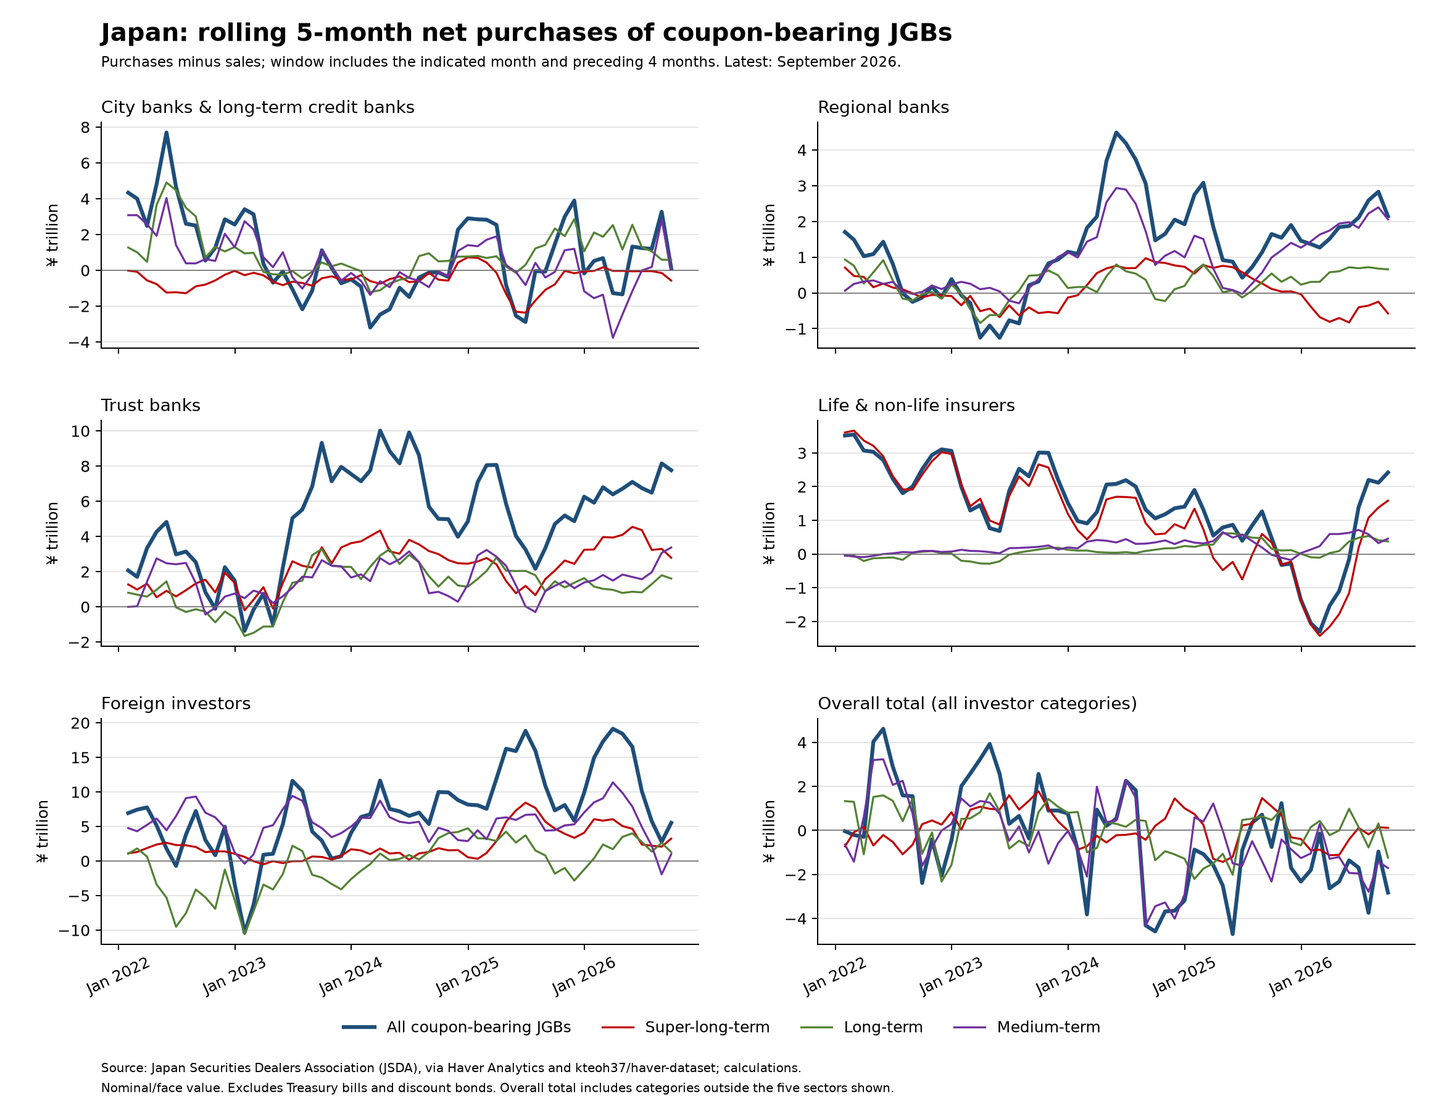
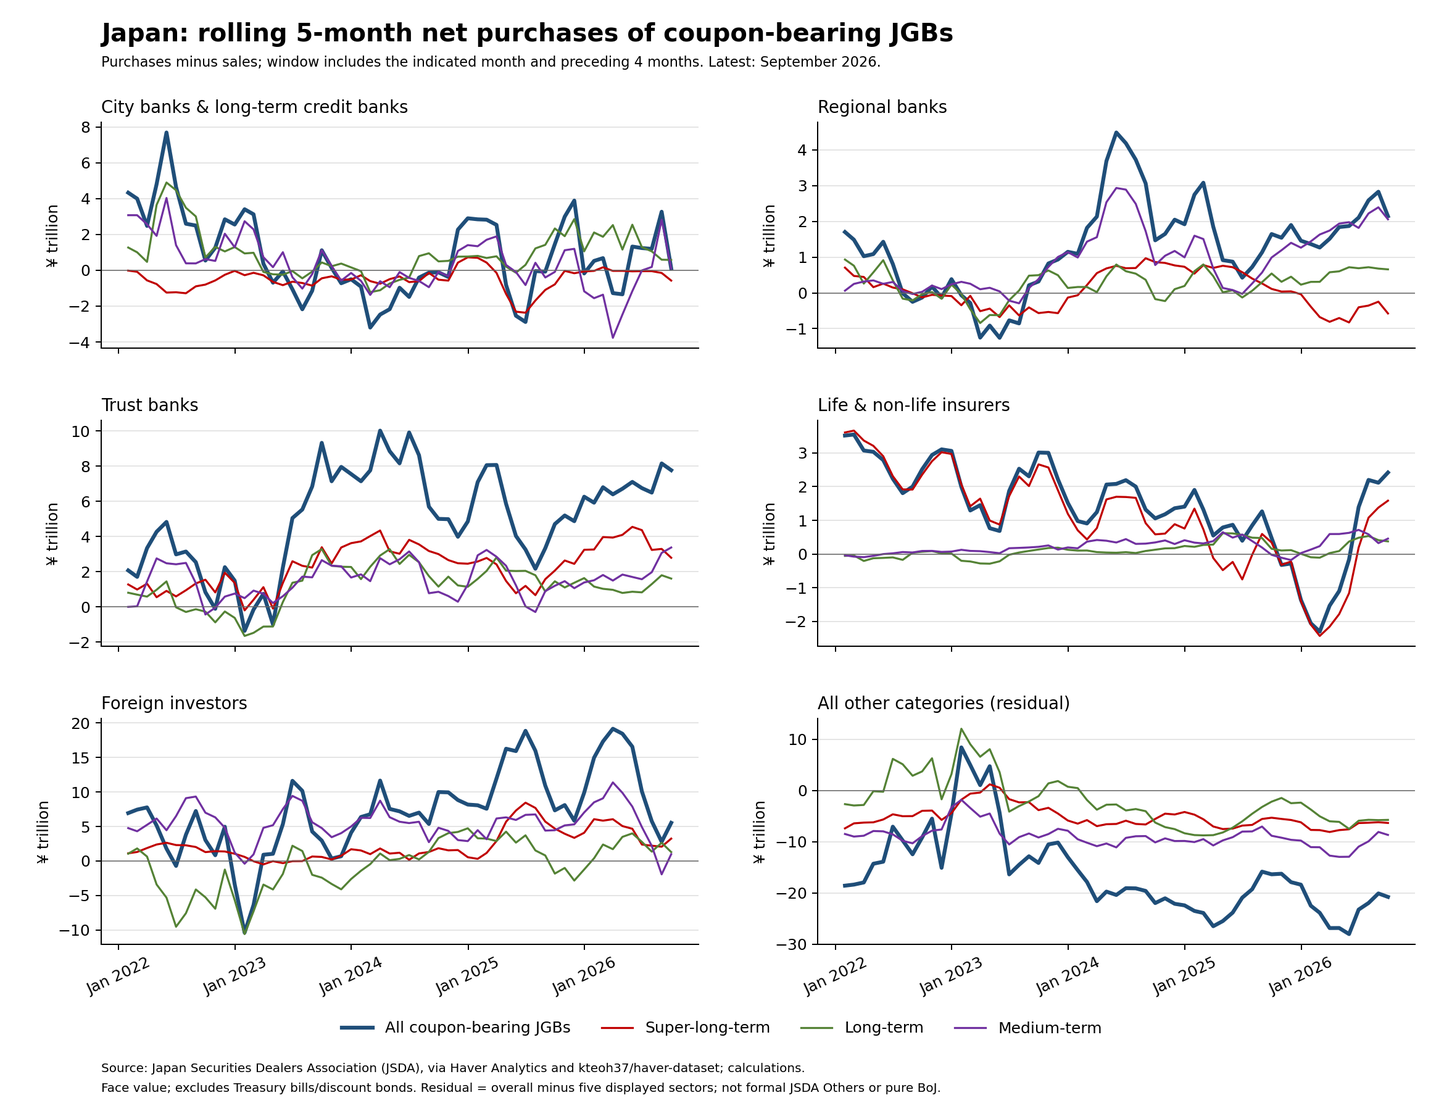
Replace overall JGB panel with explicitly defined other-categories residual

diff --git a/public/reports/japan-portfolio/index.html b/public/reports/japan-portfolio/index.html
@@ -1,4 +1,4 @@
 <!doctype html><html lang="en"><head><meta charset="utf-8"><meta name="viewport" content="width=device-width,initial-scale=1"><title>Japan portfolio flows — Daily Market Monitor</title>
 <style>:root{color-scheme:light dark;--bg:#f4f6f8;--fg:#243746;--card:white;--border:#dce4ea;--muted:#596b78;--accent:#183f5c}@media(prefers-color-scheme:dark){:root{--bg:#020617;--fg:#e2e8f0;--card:#0f172a;--border:#475569;--muted:#94a3b8;--accent:#c7d2fe}}*{box-sizing:border-box}body{margin:0;background:var(--bg);color:var(--fg);font:15px/1.55 system-ui,sans-serif}main{max-width:1500px;margin:auto;padding:30px 28px}h1{font-size:29px;color:var(--accent);margin:0 0 8px}h2{font-size:21px;color:var(--accent)}.intro,.source{color:var(--muted)}.card{background:var(--card);border:1px solid var(--border);border-radius:12px;padding:24px;margin:24px 0}.notice{border-left:4px solid #b65330;padding:14px 20px}.source{font-size:12px;overflow-wrap:anywhere}img{width:100%;height:auto;display:block;background:white;border-radius:6px}a{color:var(--accent)}@media(max-width:650px){main{padding:18px 10px}.card{padding:15px 10px}h1{font-size:24px}}</style></head><body><main><p><a href="../../">← Daily Market Monitor</a></p><h1>Japan portfolio flows</h1><p class="intro">Cross-border investment and domestic JGB purchases · yen trillion</p>
-<div class="card notice"><strong>complete / live sources checked</strong><p>Live source check attempted: 2026-10-27T14:54:31.763663+00:00. Observation dates and input vintage are shown per chart. “Unchanged” means values match the previous successful source check; it does not imply a new observation. Failures retain the last complete component and show a warning. Click a chart for its full-resolution PNG.</p></div>
-<section class="card"><h2>Cross-border portfolio flows since 2022</h2><p>Cumulative net purchases from January 2022, yen trillion. Residents: foreign equities +1.47, foreign long-term debt +8.66, foreign short-term debt +0.57. Nonresidents: Japanese equities +19.80, Japanese long-term debt +11.66, Japanese short-term debt -28.97. Positive values mean net purchases; negative values mean net sales.</p><p class="source">MOF weekly securities transactions · Latest observation: 2026-10-17 · Status: unchanged · New periods: 0 · Prior history revised: False · Last successful check: 2026-10-27T14:54:31.763663+00:00 · Final Update  October  22 , 2026</p><p></p><a href="portfolio_flows.png"><img src="portfolio_flows.png" alt="Cross-border portfolio flows since 2022" loading="lazy"></a></section><section class="card"><h2>Cross-border portfolio flows rebased to 2026</h2><p>Cumulative net purchases from January 2026, yen trillion. Residents: foreign equities +2.58, foreign long-term debt -5.18, foreign short-term debt -0.48. Nonresidents: Japanese equities +8.72, Japanese long-term debt +10.34, Japanese short-term debt -16.87. Positive values mean net purchases; negative values mean net sales.</p><p class="source">MOF weekly securities transactions · Latest observation: 2026-10-17 · Status: unchanged · New periods: 0 · Prior history revised: False · Last successful check: 2026-10-27T14:54:31.763663+00:00 · Final Update  October  22 , 2026</p><p></p><a href="portfolio_flows_recent.png"><img src="portfolio_flows_recent.png" alt="Cross-border portfolio flows rebased to 2026" loading="lazy"></a></section><section class="card"><h2>Who is buying coupon-bearing JGBs?</h2><p>Rolling five calendar month net purchases, yen trillion; displayed since 2022. Latest all coupon-bearing totals — City banks &amp; long-term credit banks: +0.11; Foreign investors: +5.53; Life &amp; non-life insurers: +2.42; Overall total (all investor categories): -2.83; Regional banks: +2.15; Trust banks: +7.77. Super-long-, long- and medium-term maturity groups are shown separately. Nominal/face value; excludes Treasury bills and discount bonds. The overall total includes categories outside the five displayed sectors and is not their sum.</p><p class="source">JSDA via Haver Analytics · Latest observation: 2026-09-30 · Status: unchanged · New periods: 0 · Prior history revised: False · Last successful check: 2026-10-27T14:54:31.763663+00:00 · Haver snapshot: 2026-10-27T14:45:32+00:00 · Source commit: 42b22b98e51902a61cbb7ae62354f2d2f31cd6ed</p><p></p><a href="jsda/rolling_jgb_purchases.png"><img src="jsda/rolling_jgb_purchases.png" alt="Who is buying coupon-bearing JGBs?" loading="lazy"></a></section><section class="card"><h2>Interpretation and updates</h2><p>Domestic JGB buying and foreign-security sales do not identify the same investors and cannot by themselves establish repatriation. MOF long-term debt includes securities beyond JGBs. Cumulative flows measure transactions, not holdings or valuation gains. MOF full weeks are allocated by week-end date; JSDA uses five calendar months, never five nonmissing observations.</p><p>The daily dashboard refreshes at 13:00 and 22:00 UTC. Portfolio charts refresh Thursdays at 10:00 America/New_York (GitHub scheduling is best effort). Every check uses official MOF data and one commit-pinned Haver snapshot; Haver is an upstream snapshot, not a direct vendor refresh. Last successful observation dates remain visible if a component fails.</p></section></main></body></html>
+<div class="card notice"><strong>complete / live sources checked</strong><p>Live source check attempted: 2026-10-27T15:26:40.337975+00:00. Observation dates and input vintage are shown per chart. “Unchanged” means values match the previous successful source check; it does not imply a new observation. Failures retain the last complete component and show a warning. Click a chart for its full-resolution PNG.</p></div>
+<section class="card"><h2>Cross-border portfolio flows since 2022</h2><p>Cumulative net purchases from January 2022, yen trillion. Residents: foreign equities +1.47, foreign long-term debt +8.66, foreign short-term debt +0.57. Nonresidents: Japanese equities +19.80, Japanese long-term debt +11.66, Japanese short-term debt -28.97. Positive values mean net purchases; negative values mean net sales.</p><p class="source">MOF weekly securities transactions · Latest observation: 2026-10-17 · Status: unchanged · New periods: 0 · Prior history revised: False · Last successful check: 2026-10-27T15:26:40.337975+00:00 · Final Update  October  22 , 2026</p><p></p><a href="portfolio_flows.png"><img src="portfolio_flows.png" alt="Cross-border portfolio flows since 2022" loading="lazy"></a></section><section class="card"><h2>Cross-border portfolio flows rebased to 2026</h2><p>Cumulative net purchases from January 2026, yen trillion. Residents: foreign equities +2.58, foreign long-term debt -5.18, foreign short-term debt -0.48. Nonresidents: Japanese equities +8.72, Japanese long-term debt +10.34, Japanese short-term debt -16.87. Positive values mean net purchases; negative values mean net sales.</p><p class="source">MOF weekly securities transactions · Latest observation: 2026-10-17 · Status: unchanged · New periods: 0 · Prior history revised: False · Last successful check: 2026-10-27T15:26:40.337975+00:00 · Final Update  October  22 , 2026</p><p></p><a href="portfolio_flows_recent.png"><img src="portfolio_flows_recent.png" alt="Cross-border portfolio flows rebased to 2026" loading="lazy"></a></section><section class="card"><h2>Who is buying coupon-bearing JGBs?</h2><p>Rolling five calendar month net purchases, yen trillion; displayed since 2022. Latest all coupon-bearing totals — All other categories (residual): -20.79; City banks &amp; long-term credit banks: +0.11; Foreign investors: +5.53; Life &amp; non-life insurers: +2.42; Regional banks: +2.15; Trust banks: +7.77. Super-long-, long- and medium-term maturity groups are shown separately. Nominal/face value; excludes Treasury bills and discount bonds. All other categories (residual) equals overall purchases minus the five displayed sectors’ purchases, and likewise for sales, separately by maturity, before netting and rolling. It includes formal JSDA Others (government auctions, BoJ operations and other entities), bond dealers, and other financial/nonfinancial categories. It is not formal JSDA Others, pure BoJ activity or private investor demand.</p><p class="source">JSDA via Haver Analytics · Latest observation: 2026-09-30 · Status: definition updated / comparison baseline reset · New periods: baseline established · Prior history revised: False · Last successful check: 2026-10-27T15:26:40.337975+00:00 · Haver snapshot: 2026-10-27T14:45:32+00:00 · Source commit: 42b22b98e51902a61cbb7ae62354f2d2f31cd6ed</p><p></p><a href="jsda/rolling_jgb_purchases.png"><img src="jsda/rolling_jgb_purchases.png" alt="Who is buying coupon-bearing JGBs?" loading="lazy"></a></section><section class="card"><h2>Interpretation and updates</h2><p>Domestic JGB buying and foreign-security sales do not identify the same investors and cannot by themselves establish repatriation. MOF long-term debt includes securities beyond JGBs. Cumulative flows measure transactions, not holdings or valuation gains. MOF full weeks are allocated by week-end date; JSDA uses five calendar months, never five nonmissing observations.</p><p>The daily dashboard refreshes at 13:00 and 22:00 UTC. Portfolio charts refresh Thursdays at 10:00 America/New_York (GitHub scheduling is best effort). Every check uses official MOF data and one commit-pinned Haver snapshot; Haver is an upstream snapshot, not a direct vendor refresh. Last successful observation dates remain visible if a component fails.</p></section></main></body></html>

diff --git a/scripts/portfolio_jsda.py b/scripts/portfolio_jsda.py
@@ -5,6 +5,9 @@ import logging
 import os
 from pathlib import Path
 SECTORS = {'CLB': 'City banks & long-term credit banks', 'RB': 'Regional banks', 'TB': 'Trust banks', 'LI': 'Life & non-life insurers', 'F': 'Foreign investors', '': 'Overall total (all investor categories)'}
+OVERALL_LABEL = SECTORS['']
+RESIDUAL_LABEL = 'All other categories (residual)'
+DISPLAY_SECTORS = [v for k,v in SECTORS.items() if k] + [RESIDUAL_LABEL]
 MATURITIES = {'S': 'Super-long-term', 'L': 'Long-term', 'M': 'Medium-term'}
 
 def calculate(raw_data, raw_metadata, window=5):
@@ -50,6 +53,18 @@ def calculate(raw_data, raw_metadata, window=5):
                 'sales_100million_yen': gross[sale].to_numpy(),
                 'net_100million_yen': (gross[purchase] - gross[sale]).to_numpy()}))
     monthly = pd.concat(parts, ignore_index=True)
+    # Derive each gross flow BEFORE netting/rolling. All five components are required.
+    fields = ['purchases_100million_yen', 'sales_100million_yen', 'net_100million_yen']
+    keys = ['month', 'maturity']
+    overall = monthly[monthly.sector.eq(OVERALL_LABEL)].set_index(keys)[fields]
+    named = monthly[~monthly.sector.eq(OVERALL_LABEL)].groupby(keys)[fields].sum(min_count=5)
+    residual = overall - named
+    if (residual[['purchases_100million_yen','sales_100million_yen']] < 0).any().any():
+        raise ValueError('Residual gross purchases/sales are negative; check source reconciliation')
+    residual['net_100million_yen'] = residual['purchases_100million_yen'] - residual['sales_100million_yen']
+    residual = residual.reset_index()
+    residual['sector'] = RESIDUAL_LABEL
+    monthly = pd.concat([monthly, residual], ignore_index=True)
     # Sum the three coupon-bearing maturity classes, requiring all three observations.
     total = monthly.groupby(['month', 'sector'])[['purchases_100million_yen', 'sales_100million_yen', 'net_100million_yen']].sum(min_count=3).reset_index()
     total['maturity'] = 'All coupon-bearing JGBs'
@@ -72,7 +87,7 @@ def outputs(frame, start, window, output):
     import matplotlib.pyplot as plt
     import matplotlib.dates as mdates
     start = pd.Timestamp(start)
-    visible = frame[frame.month >= start].copy()
+    visible = frame[(frame.month >= start) & frame.sector.isin(DISPLAY_SECTORS)].copy()
     if visible.empty:
         raise ValueError('Display start is after the latest JSDA month')
     # Refuse incomplete displayed windows rather than silently plotting shorter sums.
@@ -84,7 +99,7 @@ def outputs(frame, start, window, output):
     if (pd.Timestamp.now().normalize() - latest).days > 75:
         logging.warning('JSDA latest month is more than 75 days old; refresh the repository snapshot')
     fig, axes = plt.subplots(3, 2, figsize=(13, 10), sharex=True)
-    labels = list(SECTORS.values())
+    labels = DISPLAY_SECTORS
     series = [('All coupon-bearing JGBs', '#1f4e79', 2.5),
               ('Super-long-term', '#c00000', 1.3), ('Long-term', '#548235', 1.3),
               ('Medium-term', '#7030a0', 1.3)]
@@ -109,7 +124,7 @@ def outputs(frame, start, window, output):
     handles, legends = axes.flat[0].get_legend_handles_labels()
     fig.legend(handles, legends, loc='lower center', bbox_to_anchor=(.5, .055), ncol=4, frameon=False)
     fig.text(.07, .035, source, fontsize=8)
-    fig.text(.07, .017, 'Nominal/face value. Excludes Treasury bills and discount bonds. Overall total includes categories outside the five sectors shown.', fontsize=8)
+    fig.text(.07, .017, 'Face value; excludes Treasury bills/discount bonds. Residual = overall minus five displayed sectors; not formal JSDA Others or pure BoJ.', fontsize=8)
     fig.subplots_adjust(top=.89, bottom=.15, left=.07, right=.98, hspace=.32, wspace=.20)
     png = io.BytesIO()
     fig.savefig(png, format='png', dpi=180)

diff --git a/scripts/refresh_portfolio_report.py b/scripts/refresh_portfolio_report.py
@@ -75,17 +75,22 @@ def jsda_component(stage, previous, folder, commit):
     # Fingerprints use transaction levels, not rolling sums; revisions remain detectable.
     periods = {str(month.date()): group.sort_values(['sector','maturity'])[['sector','maturity','purchases_100million_yen','sales_100million_yen']].to_json(orient='values',double_precision=10)
                for month,group in frame.groupby('month')}
-    state = compare_periods(periods, previous)
+    definition = 'five-sectors-plus-residual-v1'
+    changed_definition = previous.get('definition') != definition
+    state = compare_periods(periods, {} if changed_definition else previous)
+    if changed_definition:
+        state['status'] = 'definition updated / comparison baseline reset'
+    state['definition'] = definition
     (stage/'jsda').mkdir(exist_ok=True)
     (stage/'jsda/rolling_jgb_purchases.png').write_bytes(png)
     latest = visible.month.max()
-    totals=visible[(visible.month==latest)&visible.maturity.eq('All coupon-bearing JGBs')]
+    totals=visible[(visible.month==latest)&visible.maturity.eq('All coupon-bearing JGBs')&visible.sector.isin(jsda.DISPLAY_SECTORS)]
     if len(totals)!=6 or totals.rolling_net_trillion_yen.isna().any():
         raise ValueError('Incomplete latest JSDA sector totals')
     values='; '.join(f'{r.sector}: {r.rolling_net_trillion_yen:+.2f}' for r in totals.itertuples())
     card=dict(file='jsda/rolling_jgb_purchases.png',title='Who is buying coupon-bearing JGBs?',description=(
         'Rolling five calendar month net purchases, yen trillion; displayed since 2022. Latest all coupon-bearing totals — '+values+
-        '. Super-long-, long- and medium-term maturity groups are shown separately. Nominal/face value; excludes Treasury bills and discount bonds. The overall total includes categories outside the five displayed sectors and is not their sum.'))
+        '. Super-long-, long- and medium-term maturity groups are shown separately. Nominal/face value; excludes Treasury bills and discount bonds. All other categories (residual) equals overall purchases minus the five displayed sectors’ purchases, and likewise for sales, separately by maturity, before netting and rolling. It includes formal JSDA Others (government auctions, BoJ operations and other entities), bond dealers, and other financial/nonfinancial categories. It is not formal JSDA Others, pure BoJ activity or private investor demand.'))
     snapshot=json.loads((folder/'snapshot_manifest.json').read_text())
     state.update(cards=[card],source='JSDA via Haver Analytics',source_commit=commit,snapshot_utc=snapshot['snapshot_utc'],
                  stale=(date.today()-latest.date()).days>75)

diff --git a/scripts/test_portfolio_report.py b/scripts/test_portfolio_report.py
@@ -21,15 +21,33 @@ class PortfolioTests(unittest.TestCase):
   for sector in jsda.SECTORS:
    for maturity in jsda.MATURITIES:
     for action,value,word in [('P',2.,'purchases'),('S',1.,'sales')]:
-     code=f'GB{maturity}{sector}{action}@JAPAN';columns[code]=[value]*8
+     code=f'GB{maturity}{sector}{action}@JAPAN';columns[code]=[value if sector else value*6]*8
      metadata.append({'Series Code':code,'Series Name':f'{word} (100 Mil.Yen)','shortsource':'JSDA','frequency':'M'})
   data=pd.DataFrame(columns,index=months);meta=pd.DataFrame(metadata)
   def encode(frame):
    out=io.BytesIO();frame.to_parquet(out);return out.getvalue()
+  with self.assertRaisesRegex(ValueError,'Missing required series'):
+   jsda.calculate(encode(data.drop(columns=[data.columns[0]])),encode(meta),5)
+  badmeta=meta.copy();badmeta.loc[0,'frequency']='Q'
+  with self.assertRaisesRegex(ValueError,'Unexpected source/frequency/units'):
+   jsda.calculate(encode(data),encode(badmeta),5)
   frame=jsda.calculate(encode(data),encode(meta),5)
   totals=frame[(frame.month==months[-1])&frame.maturity.eq('All coupon-bearing JGBs')]
-  self.assertEqual(len(totals),6)
-  self.assertTrue((totals.rolling_net_trillion_yen==.0015).all())
+  self.assertEqual(len(totals),7)
+  shown=totals[totals.sector.isin(jsda.DISPLAY_SECTORS)]
+  self.assertEqual(len(shown),6)
+  self.assertTrue((shown.rolling_net_trillion_yen==.0015).all())
+  fields=['purchases_100million_yen','sales_100million_yen','net_100million_yen','rolling_net_trillion_yen']
+  for (month,maturity),group in frame.groupby(['month','maturity']):
+   overall=group[group.sector.eq(jsda.OVERALL_LABEL)].iloc[0]
+   displayed=group[group.sector.isin(jsda.DISPLAY_SECTORS)]
+   for field in fields:
+    expected=overall[field]
+    if pd.notna(expected):self.assertAlmostEqual(displayed[field].sum(min_count=6),expected)
+  missing=data.copy();missing.iloc[4,1]=float('nan')
+  incomplete=jsda.calculate(encode(missing),encode(meta),5)
+  residual=incomplete[incomplete.sector.eq(jsda.RESIDUAL_LABEL)&incomplete.month.eq(months[4])]
+  self.assertTrue(residual.rolling_net_trillion_yen.isna().any())
   # A missing calendar month must invalidate windows, never collapse to five observations.
   gap=jsda.calculate(encode(data.drop(months[4])),encode(meta),5)
   self.assertTrue(gap[gap.month==months[-1]].rolling_net_trillion_yen.isna().all())

diff --git a/scripts/audit_portfolio_export.py b/scripts/audit_portfolio_export.py
@@ -7,11 +7,16 @@ EXPECTED={'index.html','manifest.json','portfolio_flows.png','portfolio_flows_re
 files={str(p.relative_to(FOLDER)) for p in FOLDER.rglob('*') if p.is_file()}
 if files!=EXPECTED:raise ValueError('Public portfolio export differs from approved five-file allowlist')
 state=json.loads((FOLDER/'manifest.json').read_text())
-allowed={'cards','source','source_url','source_final_update','snapshot_utc','source_commit','latest','fingerprint','status','new_periods','prior_history_revised','last_success','failed','stale','error_type'}
+allowed={'cards','source','source_url','source_final_update','snapshot_utc','source_commit','latest','fingerprint','status','new_periods','prior_history_revised','last_success','failed','stale','error_type','definition'}
 if set(state)-{'schema_version','mode','attempted_at_utc','components','status'}:raise ValueError('Unexpected public manifest fields')
 for component in state['components'].values():
  if set(component)-allowed:raise ValueError('Unexpected component fields')
  for card in component['cards']:
   if set(card)!={'file','title','description'} or card['file'] not in EXPECTED:raise ValueError('Unexpected card contract')
 if '<script' in (FOLDER/'index.html').read_text().lower():raise ValueError('Portfolio HTML must contain prose and images only')
+
+jsda=state['components']['JSDA']
+if jsda.get('definition') != 'five-sectors-plus-residual-v1':raise ValueError('JSDA report must use the residual definition')
+if 'All other categories (residual)' not in jsda['cards'][0]['description'] or 'Overall total (all investor categories):' in jsda['cards'][0]['description']:raise ValueError('JSDA description does not match residual chart')
+
 print('Approved export: three PNGs, HTML descriptions, compact display manifest; no raw snapshot or state history.')

diff --git a/docs/portfolio-integration.md b/docs/portfolio-integration.md
@@ -4,7 +4,7 @@ The public report is `public/reports/japan-portfolio/index.html`, linked as **Ja
 
 The existing daily-monitor deployment workflow owns refresh/publication. Its single commit-pinned Haver checkout supplies daily dashboard series, policy-report data and monthly JSDA series. MOF is downloaded live from the official HTTPS endpoint. Reviewed parser/calculation code is adapted from `kteoh37/japan-portfolio-tracker`; no cross-repo tracker access, extra credential, private tracker schedule or ChatGPT task change is required.
 
-MOF preserves January 2022 and January 2026 cumulative baselines, allocating full weeks by week-end date. JSDA preserves rolling five CALENDAR months, five named sectors plus a separate overall total, medium-/long-/super-long-term coupon JGB groups, yen trillion, nominal/face value, excluding Treasury bills and discount bonds. Overall totals include other categories and cannot be inferred by summing the five sectors. Transactions do not identify same-investor repatriation.
+MOF preserves January 2022 and January 2026 cumulative baselines, allocating full weeks by week-end date. JSDA preserves rolling five CALENDAR months, five named sectors plus All other categories (residual), medium-/long-/super-long-term coupon JGB groups, yen trillion, nominal/face value, excluding Treasury bills and discount bonds. The residual subtracts the five displayed sectors from overall purchases and sales separately by month/maturity, then nets and rolls. It includes formal JSDA Others, bond dealers and other categories; it is not a pure BoJ series. All inputs must be present. Overall totals remain internal reconciliation inputs. Transactions do not identify same-investor repatriation.
 
 Every refresh stages each complete component before promotion. Failures preserve all of that component's last good PNGs/descriptions and display a failed/stale warning with separate attempt and last-success timestamps. Partial updates can deploy the warning but mark the workflow failed afterward. Source regression, invalid units/frequency and missing rolling-window months are rejected. MOF older than 21 days or JSDA older than 75 days is flagged stale; unchanged inputs still show observation age.
 
@@ -13,3 +13,5 @@ Durable sanitized manifest stores dates, source SHA/vintage, approved current-ma
 The workflow commits ONLY the explicit five-file export using the platform's existing ephemeral GITHUB_TOKEN and deploys that same working tree. Dashboard/policy JSONs are generated directly in the build, never committed from raw snapshots. Ordinary token-authored commits do not recursively trigger push workflows. Main branch updates are non-force pushes; concurrent changes cause a safe failure, not overwrites. Existing HAVER_DATA_TOKEN already accesses the Haver repository and is reused in its existing checkout; no secret value/scope is read or changed.
 
 Daily dashboard cadence stays 13:00/22:00 UTC. Weekly portfolio cron is enabled only after a successful manual live cloud run. Two UTC candidates plus an America/New_York hour/day gate preserve Thursday 10:00 across daylight saving time, with the wrong-hour run skipped. GitHub cron is best effort and can run late. Manual refresh remains available with workflow_dispatch `refresh_portfolio=true`.
+
+A versioned JSDA definition resets the comparison fingerprint when changing from overall to residual; it is not a source-data revision. PNGs always regenerate even when source values are unchanged.
